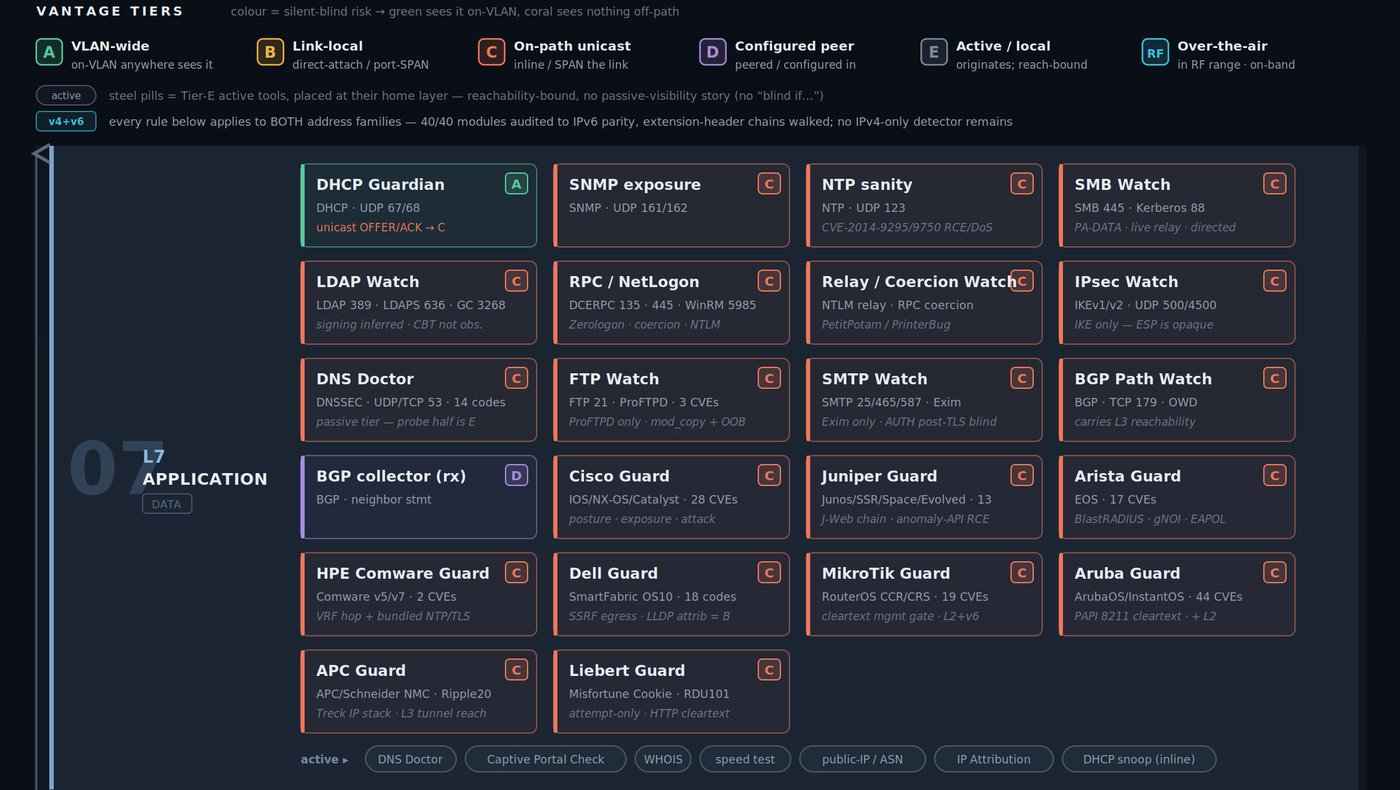
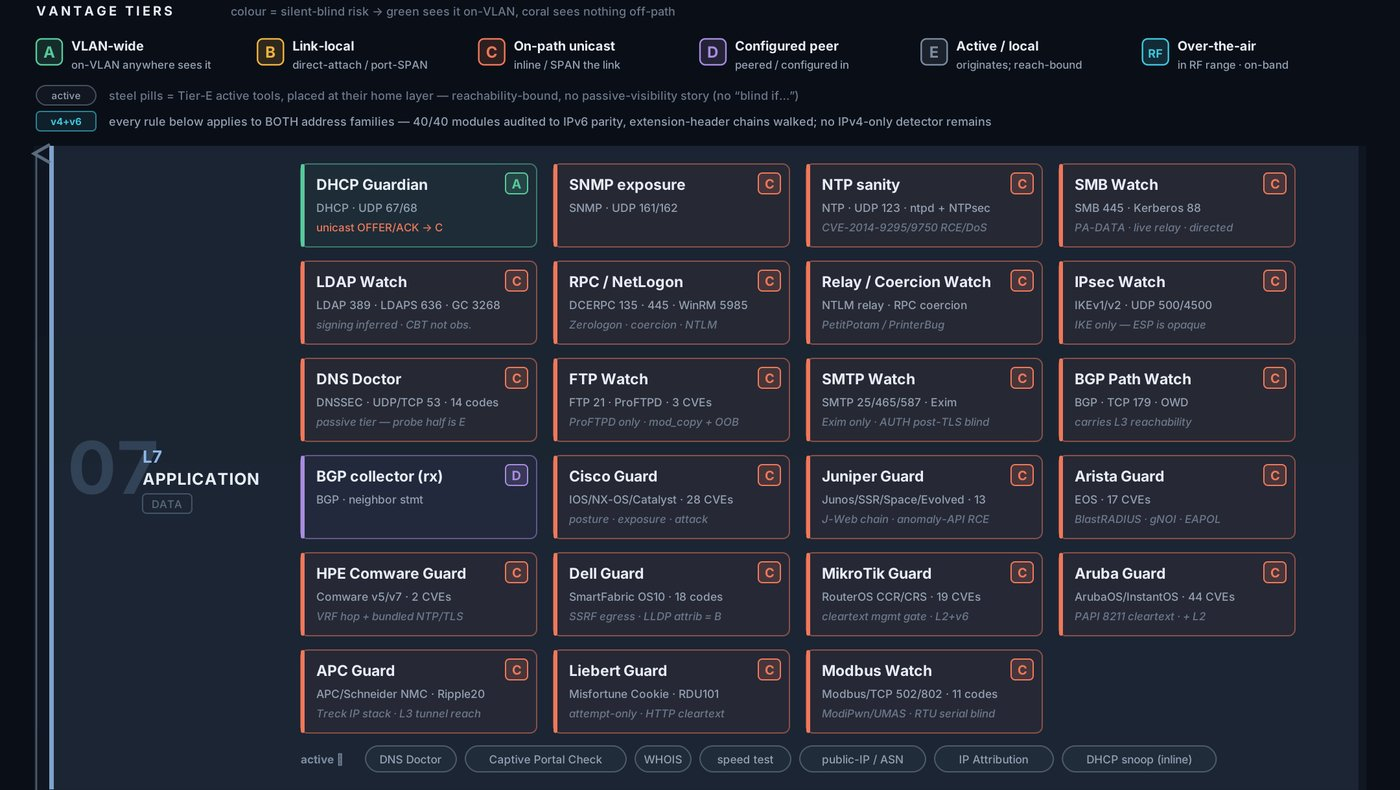
docs(osi): visibility matrix with Modbus Watch
New module visibility matrix adds the Modbus Watch tile (L7, tier C).
Re-encoded docs/ragnar_osi_visibility_matrix.jpg and re-cut the web crops
(matrix_full + matrix_l7..l1; layer band edges unchanged), bumped the image
cache-bust to 20261007-modbus, noted in the #926 releases entry.

diff --git a/web/index_modern.html b/web/index_modern.html
@@ -1877,8 +1877,8 @@
                         <!-- Visibility matrix reference (overview) -->
                         <details class="glass rounded-xl p-3 sm:p-4 md:col-span-2" ontoggle="netMatrixLoad(this)">
                             <summary class="cursor-pointer select-none text-sm font-semibold text-gray-300 hover:text-white">Module visibility matrix <span class="text-xs font-normal text-gray-500">— reference guide · every module by OSI layer × vantage tier</span></summary>
-                            <a href="/web/images/osi/matrix_full.jpg?v=20261003" target="_blank" rel="noopener" title="Open the full matrix">
-                                <img data-src="/web/images/osi/matrix_full.jpg?v=20261003" alt="Ragnar module visibility matrix: every module by OSI layer and vantage tier" class="block w-full h-auto rounded-lg mt-3">
+                            <a href="/web/images/osi/matrix_full.jpg?v=20261007-modbus" target="_blank" rel="noopener" title="Open the full matrix">
+                                <img data-src="/web/images/osi/matrix_full.jpg?v=20261007-modbus" alt="Ragnar module visibility matrix: every module by OSI layer and vantage tier" class="block w-full h-auto rounded-lg mt-3">
                             </a>
                             <p class="text-xs text-gray-500 mt-2">A clean verdict is only as wide as the tap: check a module's vantage tier before reading silence as safety. Each layer button above shows its own band of this matrix. Card letters are the vantage tier: <strong>A</strong> VLAN-wide · <strong>B</strong> link-local · <strong>C</strong> on-path unicast · <strong>D</strong> configured peer · <strong>E</strong> active / local · <strong>RF</strong> over-the-air. Tap the image to open it full-size.</p>
                         </details>
@@ -2010,8 +2010,8 @@
                         <!-- Visibility matrix reference (l7) -->
                         <details class="glass rounded-xl p-3 sm:p-4 md:col-span-2" ontoggle="netMatrixLoad(this)">
                             <summary class="cursor-pointer select-none text-sm font-semibold text-gray-300 hover:text-white">Visibility matrix · L7 Application <span class="text-xs font-normal text-gray-500">— what a tap must see for each module here</span></summary>
-                            <a href="/web/images/osi/matrix_full.jpg?v=20261003" target="_blank" rel="noopener" title="Open the full matrix">
-                                <img data-src="/web/images/osi/matrix_l7.jpg?v=20261003" alt="Module visibility matrix, L7 Application band" class="block w-full h-auto rounded-lg mt-3">
+                            <a href="/web/images/osi/matrix_full.jpg?v=20261007-modbus" target="_blank" rel="noopener" title="Open the full matrix">
+                                <img data-src="/web/images/osi/matrix_l7.jpg?v=20261007-modbus" alt="Module visibility matrix, L7 Application band" class="block w-full h-auto rounded-lg mt-3">
                             </a>
                             <p class="text-xs text-gray-500 mt-2">Card letters are the vantage tier: <strong>A</strong> VLAN-wide · <strong>B</strong> link-local · <strong>C</strong> on-path unicast · <strong>D</strong> configured peer · <strong>E</strong> active / local · <strong>RF</strong> over-the-air. Tap the image for the full matrix (all layers).</p>
                         </details>
@@ -2514,8 +2514,8 @@
                         <!-- Visibility matrix reference (l6) -->
                         <details class="glass rounded-xl p-3 sm:p-4 md:col-span-2" ontoggle="netMatrixLoad(this)">
                             <summary class="cursor-pointer select-none text-sm font-semibold text-gray-300 hover:text-white">Visibility matrix · L6 Presentation <span class="text-xs font-normal text-gray-500">— what a tap must see for each module here</span></summary>
-                            <a href="/web/images/osi/matrix_full.jpg?v=20261003" target="_blank" rel="noopener" title="Open the full matrix">
-                                <img data-src="/web/images/osi/matrix_l6.jpg?v=20261003" alt="Module visibility matrix, L6 Presentation band" class="block w-full h-auto rounded-lg mt-3">
+                            <a href="/web/images/osi/matrix_full.jpg?v=20261007-modbus" target="_blank" rel="noopener" title="Open the full matrix">
+                                <img data-src="/web/images/osi/matrix_l6.jpg?v=20261007-modbus" alt="Module visibility matrix, L6 Presentation band" class="block w-full h-auto rounded-lg mt-3">
                             </a>
                             <p class="text-xs text-gray-500 mt-2">Card letters are the vantage tier: <strong>A</strong> VLAN-wide · <strong>B</strong> link-local · <strong>C</strong> on-path unicast · <strong>D</strong> configured peer · <strong>E</strong> active / local · <strong>RF</strong> over-the-air. Tap the image for the full matrix (all layers).</p>
                         </details>
@@ -2566,8 +2566,8 @@
                         <!-- Visibility matrix reference (l5) -->
                         <details class="glass rounded-xl p-3 sm:p-4 md:col-span-2" ontoggle="netMatrixLoad(this)">
                             <summary class="cursor-pointer select-none text-sm font-semibold text-gray-300 hover:text-white">Visibility matrix · L5 Session <span class="text-xs font-normal text-gray-500">— what a tap must see for each module here</span></summary>
-                            <a href="/web/images/osi/matrix_full.jpg?v=20261003" target="_blank" rel="noopener" title="Open the full matrix">
-                                <img data-src="/web/images/osi/matrix_l5.jpg?v=20261003" alt="Module visibility matrix, L5 Session band" class="block w-full h-auto rounded-lg mt-3">
+                            <a href="/web/images/osi/matrix_full.jpg?v=20261007-modbus" target="_blank" rel="noopener" title="Open the full matrix">
+                                <img data-src="/web/images/osi/matrix_l5.jpg?v=20261007-modbus" alt="Module visibility matrix, L5 Session band" class="block w-full h-auto rounded-lg mt-3">
                             </a>
                             <p class="text-xs text-gray-500 mt-2">Card letters are the vantage tier: <strong>A</strong> VLAN-wide · <strong>B</strong> link-local · <strong>C</strong> on-path unicast · <strong>D</strong> configured peer · <strong>E</strong> active / local · <strong>RF</strong> over-the-air. Tap the image for the full matrix (all layers).</p>
                         </details>
@@ -2611,8 +2611,8 @@
                         <!-- Visibility matrix reference (l4) -->
                         <details class="glass rounded-xl p-3 sm:p-4 md:col-span-2" ontoggle="netMatrixLoad(this)">
                             <summary class="cursor-pointer select-none text-sm font-semibold text-gray-300 hover:text-white">Visibility matrix · L4 Transport <span class="text-xs font-normal text-gray-500">— what a tap must see for each module here</span></summary>
-                            <a href="/web/images/osi/matrix_full.jpg?v=20261003" target="_blank" rel="noopener" title="Open the full matrix">
-                                <img data-src="/web/images/osi/matrix_l4.jpg?v=20261003" alt="Module visibility matrix, L4 Transport band" class="block w-full h-auto rounded-lg mt-3">
+                            <a href="/web/images/osi/matrix_full.jpg?v=20261007-modbus" target="_blank" rel="noopener" title="Open the full matrix">
+                                <img data-src="/web/images/osi/matrix_l4.jpg?v=20261007-modbus" alt="Module visibility matrix, L4 Transport band" class="block w-full h-auto rounded-lg mt-3">
                             </a>
                             <p class="text-xs text-gray-500 mt-2">Card letters are the vantage tier: <strong>A</strong> VLAN-wide · <strong>B</strong> link-local · <strong>C</strong> on-path unicast · <strong>D</strong> configured peer · <strong>E</strong> active / local · <strong>RF</strong> over-the-air. Tap the image for the full matrix (all layers).</p>
                         </details>
@@ -2658,8 +2658,8 @@
                         <!-- Visibility matrix reference (l3) -->
                         <details class="glass rounded-xl p-3 sm:p-4 md:col-span-2" ontoggle="netMatrixLoad(this)">
                             <summary class="cursor-pointer select-none text-sm font-semibold text-gray-300 hover:text-white">Visibility matrix · L3 Network <span class="text-xs font-normal text-gray-500">— what a tap must see for each module here</span></summary>
-                            <a href="/web/images/osi/matrix_full.jpg?v=20261003" target="_blank" rel="noopener" title="Open the full matrix">
-                                <img data-src="/web/images/osi/matrix_l3.jpg?v=20261003" alt="Module visibility matrix, L3 Network band" class="block w-full h-auto rounded-lg mt-3">
+                            <a href="/web/images/osi/matrix_full.jpg?v=20261007-modbus" target="_blank" rel="noopener" title="Open the full matrix">
+                                <img data-src="/web/images/osi/matrix_l3.jpg?v=20261007-modbus" alt="Module visibility matrix, L3 Network band" class="block w-full h-auto rounded-lg mt-3">
                             </a>
                             <p class="text-xs text-gray-500 mt-2">Card letters are the vantage tier: <strong>A</strong> VLAN-wide · <strong>B</strong> link-local · <strong>C</strong> on-path unicast · <strong>D</strong> configured peer · <strong>E</strong> active / local · <strong>RF</strong> over-the-air. Tap the image for the full matrix (all layers).</p>
                         </details>
@@ -2873,8 +2873,8 @@
                         <!-- Visibility matrix reference (l2) -->
                         <details class="glass rounded-xl p-3 sm:p-4 md:col-span-2" ontoggle="netMatrixLoad(this)">
                             <summary class="cursor-pointer select-none text-sm font-semibold text-gray-300 hover:text-white">Visibility matrix · L2 Data Link <span class="text-xs font-normal text-gray-500">— what a tap must see for each module here</span></summary>
-                            <a href="/web/images/osi/matrix_full.jpg?v=20261003" target="_blank" rel="noopener" title="Open the full matrix">
-                                <img data-src="/web/images/osi/matrix_l2.jpg?v=20261003" alt="Module visibility matrix, L2 Data Link band" class="block w-full h-auto rounded-lg mt-3">
+                            <a href="/web/images/osi/matrix_full.jpg?v=20261007-modbus" target="_blank" rel="noopener" title="Open the full matrix">
+                                <img data-src="/web/images/osi/matrix_l2.jpg?v=20261007-modbus" alt="Module visibility matrix, L2 Data Link band" class="block w-full h-auto rounded-lg mt-3">
                             </a>
                             <p class="text-xs text-gray-500 mt-2">Card letters are the vantage tier: <strong>A</strong> VLAN-wide · <strong>B</strong> link-local · <strong>C</strong> on-path unicast · <strong>D</strong> configured peer · <strong>E</strong> active / local · <strong>RF</strong> over-the-air. Tap the image for the full matrix (all layers).</p>
                         </details>
@@ -3095,8 +3095,8 @@
                         <!-- Visibility matrix reference (l1) -->
                         <details class="glass rounded-xl p-3 sm:p-4 md:col-span-2" ontoggle="netMatrixLoad(this)">
                             <summary class="cursor-pointer select-none text-sm font-semibold text-gray-300 hover:text-white">Visibility matrix · L1 Physical <span class="text-xs font-normal text-gray-500">— what a tap must see for each module here</span></summary>
-                            <a href="/web/images/osi/matrix_full.jpg?v=20261003" target="_blank" rel="noopener" title="Open the full matrix">
-                                <img data-src="/web/images/osi/matrix_l1.jpg?v=20261003" alt="Module visibility matrix, L1 Physical band" class="block w-full h-auto rounded-lg mt-3">
+                            <a href="/web/images/osi/matrix_full.jpg?v=20261007-modbus" target="_blank" rel="noopener" title="Open the full matrix">
+                                <img data-src="/web/images/osi/matrix_l1.jpg?v=20261007-modbus" alt="Module visibility matrix, L1 Physical band" class="block w-full h-auto rounded-lg mt-3">
                             </a>
                             <p class="text-xs text-gray-500 mt-2">Card letters are the vantage tier: <strong>A</strong> VLAN-wide · <strong>B</strong> link-local · <strong>C</strong> on-path unicast · <strong>D</strong> configured peer · <strong>E</strong> active / local · <strong>RF</strong> over-the-air. Tap the image for the full matrix (all layers).</p>
                         </details>

diff --git a/docs/releases.md b/docs/releases.md
@@ -12,6 +12,7 @@
 - New verdict `plc-abuse` pages in the Network Integrity Monitor (`learning` counts as clean); HIGH/MEDIUM findings feed **Watchtower** (`modbus_watch`); added to the background rotation, `GET /api/net/modbus-watch`, `GET/POST /api/net/modbus-baseline` and CLI `modbus-watch` (with `--pcap` replay)
 - **4 new CVEs** (index 271 → **275** named / 230 → **234** detected): CVE-2021-22779 (ModiPwn), and CVE-2019-14462 / CVE-2019-14463 / CVE-2024-10918 (libmodbus framing, flagged as a trigger only)
 - Detector Self-Test: new `modbus` suite 30/30, including Scapy pcap replays over IPv4, IPv6 and IPv6 with an extension header. Upstream verifier 32/32. Checked on live sockets in a sealed network namespace: the learning scan stays clean, the attack scan reads `plc-abuse` on both families, and the learned master stays quiet
+- Updated **module visibility matrix** with the Modbus Watch tile (L7, on-path unicast tier C): `docs/ragnar_osi_visibility_matrix.jpg` and the per-layer web crops in `web/images/osi/` re-cut (band edges unchanged), image cache-bust bumped
 - **Docs:** [nettools.md](nettools.md) "Modbus Watch", [watchtower.md](watchtower.md), [CREDITS.md](CREDITS.md), [CVE.md](CVE.md)
 
 #### [#925](https://github.com/PierreGode/Ragnar/pull/925) — feat(sdr): RF Waterfall always visible in Signal Intelligence
